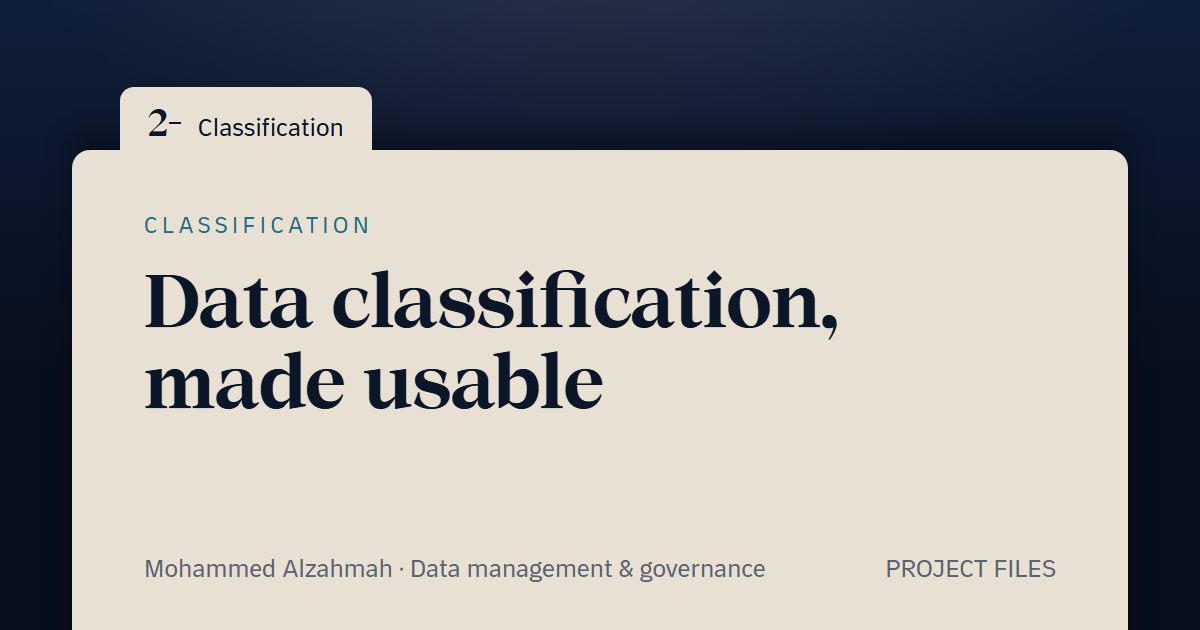
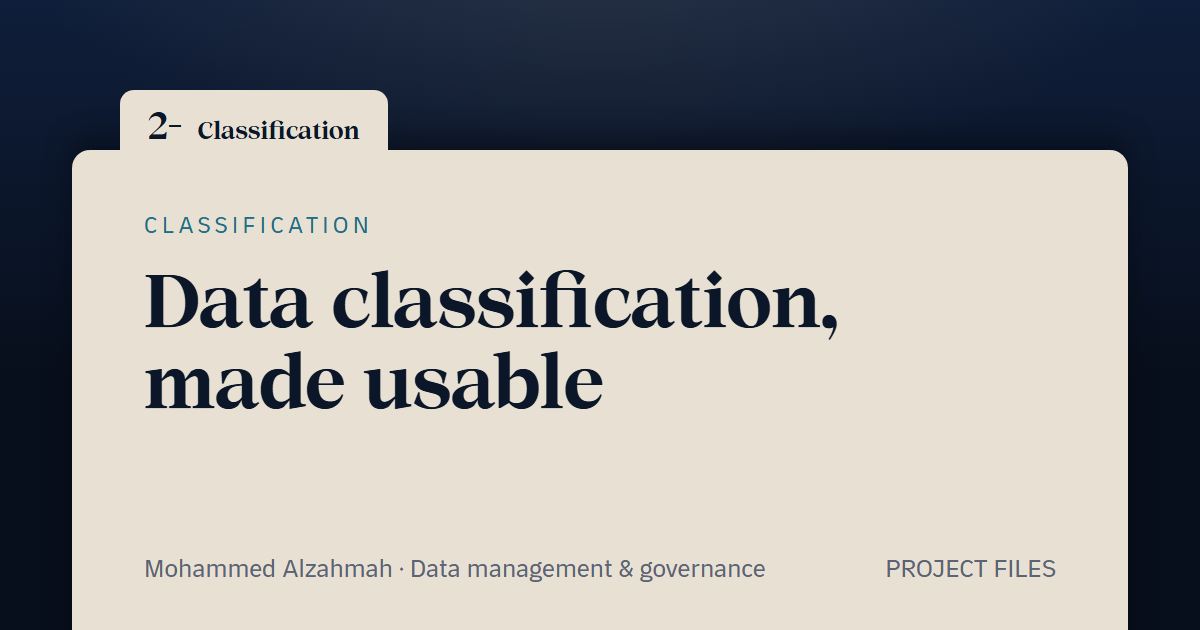
feat: folder tab names in the heading face
The owner asked for a better face on the project names. The number and
the name now read as one title in Serif Display (no new font file: the
home page already loads it). Sizes keep the longest name whole at every
width. Share images follow.

Changed region(s): [[0.1233, 0.1508, 0.3392, 0.2413], [0.0925, 0.1206, 0.3083, 0.1508]]

diff --git a/DESIGN.md b/DESIGN.md
@@ -235,7 +235,7 @@ html {
 **Typography rules**
 
 - Hierarchy comes from family, size, color, case and space. Never from weight: each family has one weight.
-- Headings (H1, H2, H3, folder numbers) always use Serif Display. The project story (context, what I did, result) always uses Serif Text. Everything else uses Sans.
+- Headings (H1, H2, H3) and the folder tabs (number and name, owner's choice 2026-10-13) always use Serif Display. The project story (context, what I did, result) always uses Serif Text. Everything else uses Sans.
 - Story measure: 34 to 40 em in EN, 30 to 36 em in AR. Lead measure: 46 ch max.
 - Arabic never gets letter-spacing, uppercase or italic. Arabic UI digits are Arabic-Indic (٠١٢٣), including folder numbers (١-).
 - Digits are proportional (no `tnum`). Number columns in demos sit in fixed-width cells aligned to `end`.
@@ -441,8 +441,8 @@ A folder is a `<li>` with a real `<button>` tab. Clicking anywhere on the folder
   cursor: pointer;
   transition: scale var(--d-press) var(--ease-paper);
 }
-.folder__num { font: var(--fw-display) 2.25rem / 1 var(--font-display); }
-.folder__short { white-space: nowrap; overflow: hidden; text-overflow: ellipsis; }
+.folder__num { font: var(--fw-display) 1.875rem / 1 var(--font-display); }   /* phone 1.75rem, under 390 px 1.5rem */
+.folder__short { font: var(--fw-display) 1.125rem / 1.2 var(--font-display); white-space: nowrap; overflow: hidden; text-overflow: ellipsis; }   /* phone 1.3125rem, under 390 px 1.1875rem */
 .folder__lock { display: none; inline-size: 16px; block-size: 16px; flex: none; align-self: center; color: var(--c-stamp); }
 
 @media (hover: hover) {

diff --git a/CLAUDE.md b/CLAUDE.md
@@ -64,7 +64,7 @@ Rules that keep them from conflicting:
   - dotLottie (`@lottiefiles/dotlottie-web`) for small vector animations exported from After Effects.
 - **Fonts**: the **thmanyah** typeface, chosen by the owner. Source files: `design/fonts/thmanyah/` (woff2 as delivered, plus `LICENSE.pdf` and `LICENSE-ar.pdf`; the Arabic licence prevails).
   - Three families, weights 300, 400, 500, 700, 900 (no 600): `thmanyah Serif Display` (headings), `thmanyah Serif Text` (long reading), `thmanyah Sans` (screen and UI). Each file covers Arabic and Latin, so EN and AR use the same stack.
-  - Owner decisions: all headings use `thmanyah Serif Display`. The project story (context, what I did, result) uses `thmanyah Serif Text`. Everything else (UI, labels, lead, demos) uses `thmanyah Sans`.
+  - Owner decisions: all headings use `thmanyah Serif Display`, and so do the folder tabs, number and name (2026-10-13). The project story (context, what I did, result) uses `thmanyah Serif Text`. Everything else (UI, labels, lead, demos) uses `thmanyah Sans`.
   - Digits are proportional (no `tnum`). Align number columns by design, not by font feature.
   - Swash letters and the slanted kashida are for display only, once per word at most, never in two neighbouring words, never in body text.
   - No other typeface. `DESIGN.md` dropped IBM Plex Mono; file kinds use Sans.
